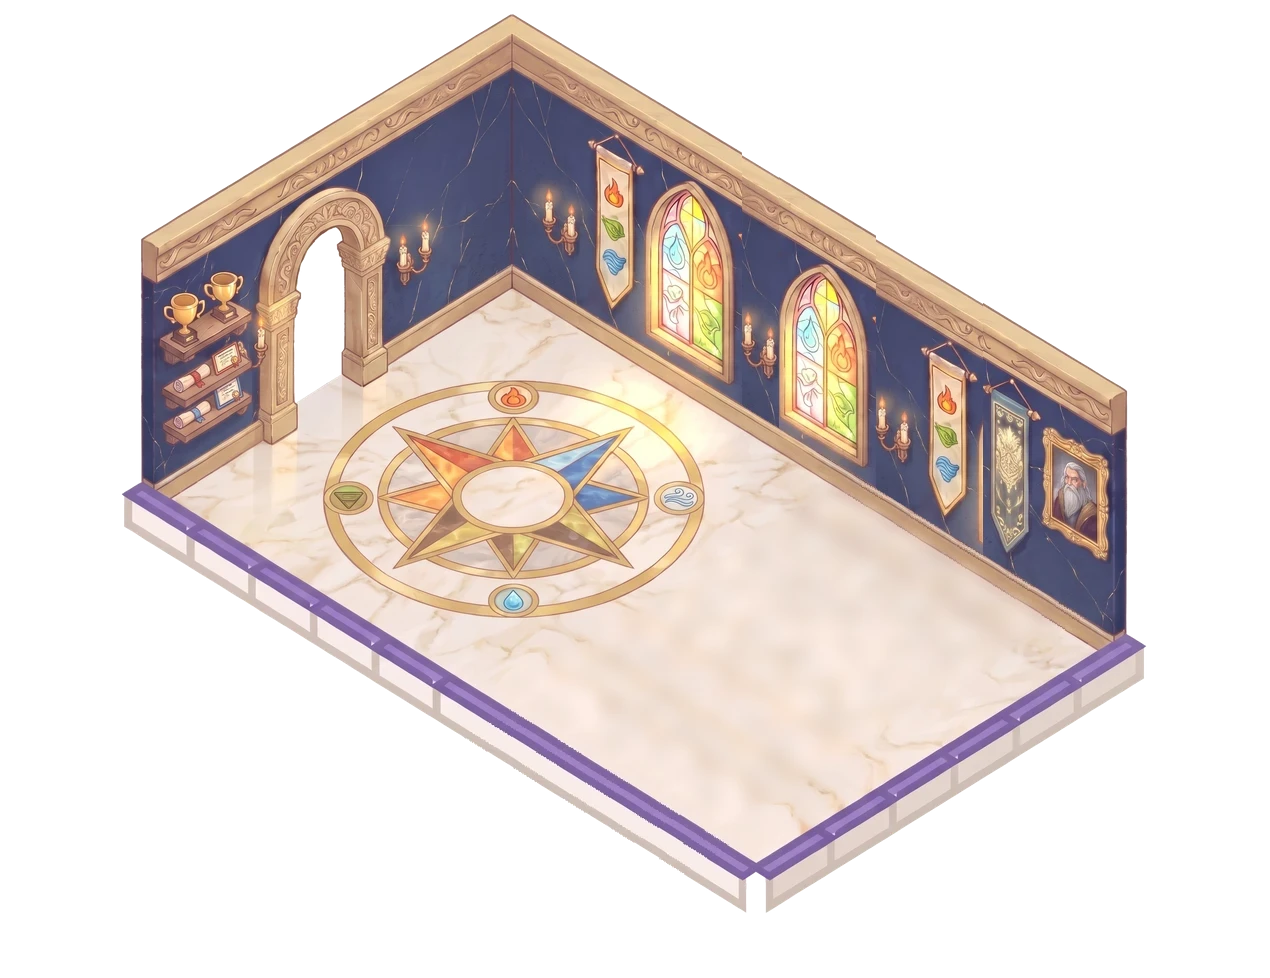
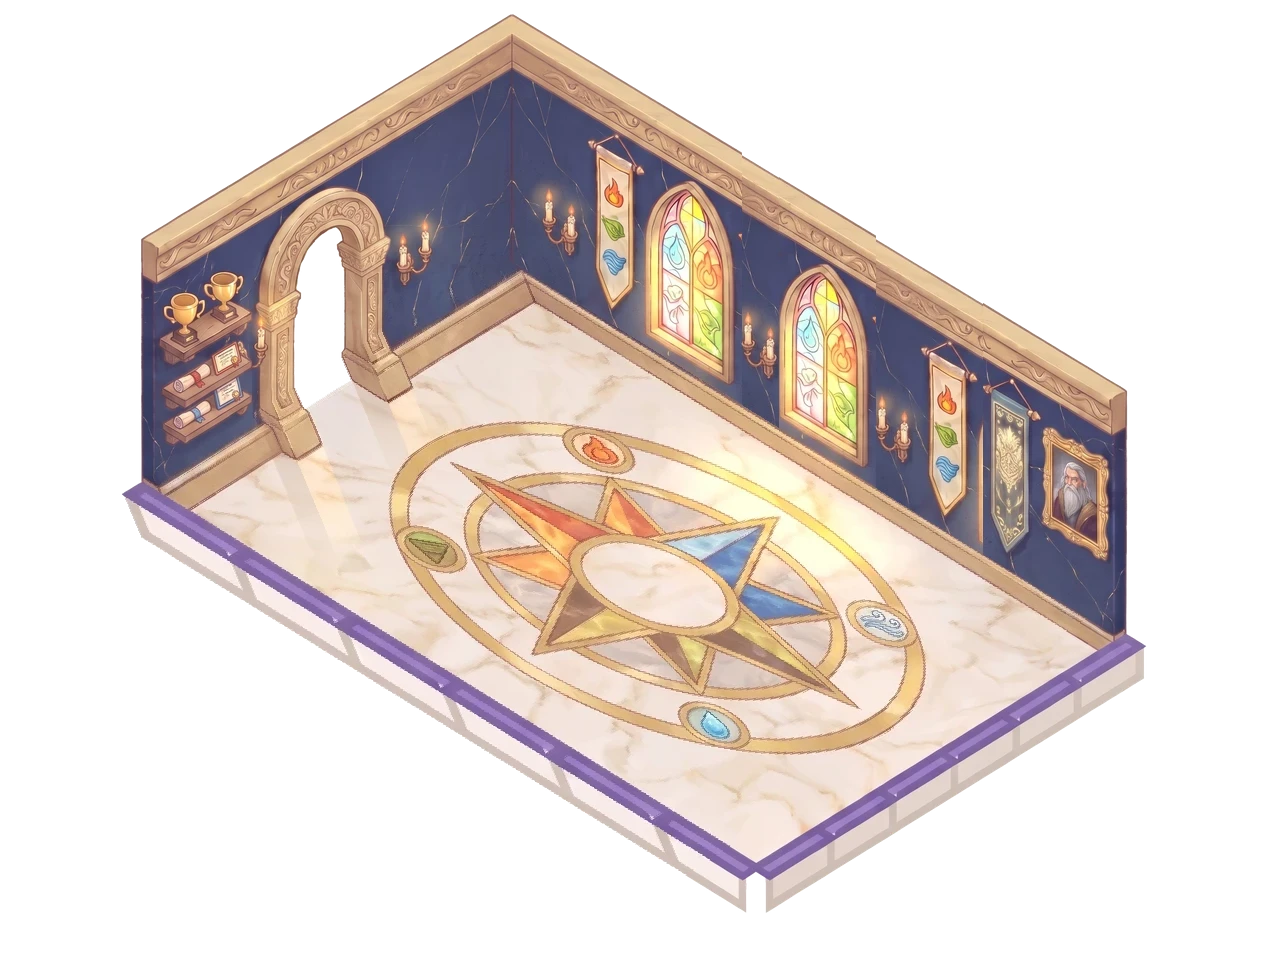
Build 617: Long masters' hall: the floor's star-compass stretched along the whole 6x10 hall (Maria: «Надо теперь этот знак на полу нормально растянуть при такой длине»); picture only, checked by eye.

diff --git a/js/game.js b/js/game.js
@@ -1,24 +1,24 @@
 // Magic school idle tycoon — v0.3: isometric campus with walking creatures.
 import './clock.js?v=470';   // build audit 2026-11-24: trusted clock (server time), must stay the first import
-import './edit_guard.js?v=616';   // room editor (?edit only): in-memory storage, no cloud
+import './edit_guard.js?v=617';   // room editor (?edit only): in-memory storage, no cloud
 import {
   OFFLINE_CAP_SEC, MAX_DESKS, MAX_ITEM_LEVEL, MAX_TEACHER_LEVEL, MAX_TIME_LEVEL,
   CLASSES, SPECIES, NAMES, MISSIONS, WORLDS, WORLD, META,
-} from './data.js?v=616';
-import { EMOJI_RE, emojiImage, preloadEmoji, watchEmoji, emojiHtml } from './emoji.js?v=616';
-import { initMinigame } from './minigame.js?v=616';
-import { initChests } from './chests.js?v=616';
-import { initValley } from './valley.js?v=616';
-import { initValley2 } from './valley2.js?v=616';   // «Долина» v2 board game behind the flag magicschool.valley2 (tools/_patch/valley2_client.py)
-import { log as glog, tail as gtail, entries as gentries, lineOf as gline, dump as gdump } from './gamelog.js?v=616';
-import { initLore } from './lore.js?v=616';
-import { initAvatar } from './avatar.js?v=616';
-import { initStats } from './stats.js?v=616';
-import { initStudents } from './students.js?v=616';   // student path 1-3 (tools/_patch/students_s8a.py), same ?v as every module
-import { initHeroes, HERO_BAL } from './heroes.js?v=616';   // heroes 8b (tools/_patch/heroes_s8b.py), same ?v as every module
-import { initAnnex } from './annex.js?v=616';   // rework 5c: class annexes (tools/_patch/annex_s5c.py), same ?v as every module   // anonymous play statistics -> lazy /game/stats (report: tools/stats_report.mjs)
-import { ANNEX_BAL } from './annex.js?v=616';   // s7: the starfall theme doubles the observatory's stars (the same module instance)
-import { initToday } from './today.js?v=616';   // rework step 7: the daily bar «☀ Сегодня» (tools/_patch/today_s7.py), same ?v as every module
+} from './data.js?v=617';
+import { EMOJI_RE, emojiImage, preloadEmoji, watchEmoji, emojiHtml } from './emoji.js?v=617';
+import { initMinigame } from './minigame.js?v=617';
+import { initChests } from './chests.js?v=617';
+import { initValley } from './valley.js?v=617';
+import { initValley2 } from './valley2.js?v=617';   // «Долина» v2 board game behind the flag magicschool.valley2 (tools/_patch/valley2_client.py)
+import { log as glog, tail as gtail, entries as gentries, lineOf as gline, dump as gdump } from './gamelog.js?v=617';
+import { initLore } from './lore.js?v=617';
+import { initAvatar } from './avatar.js?v=617';
+import { initStats } from './stats.js?v=617';
+import { initStudents } from './students.js?v=617';   // student path 1-3 (tools/_patch/students_s8a.py), same ?v as every module
+import { initHeroes, HERO_BAL } from './heroes.js?v=617';   // heroes 8b (tools/_patch/heroes_s8b.py), same ?v as every module
+import { initAnnex } from './annex.js?v=617';   // rework 5c: class annexes (tools/_patch/annex_s5c.py), same ?v as every module   // anonymous play statistics -> lazy /game/stats (report: tools/stats_report.mjs)
+import { ANNEX_BAL } from './annex.js?v=617';   // s7: the starfall theme doubles the observatory's stars (the same module instance)
+import { initToday } from './today.js?v=617';   // rework step 7: the daily bar «☀ Сегодня» (tools/_patch/today_s7.py), same ?v as every module
 // mini-game «Зельеварка» (match-3, js/minigame.js): a pill on the main screen, its own overlay; the school keeps living under it
 const MG = initMinigame({ state: () => S, earn: (n) => bonus(n), rate: () => rateNow(), save: () => save(), stones: () => stones(), spendStones: (n) => stonesAdd(-n, '', 'mg_cont'), toast: (t) => toast(t), fmt: (n) => fmt(n), emojiHtml, emojiImage,
   audioOut: () => { if (!sfxOn() || document.hidden) return null; const c = audio(); return c && c.state === 'running' ? { c, out: AOUT } : null; },
@@ -125,7 +125,7 @@ const SAVE_KEY = WORLD === 1 ? 'magicschool.save.v2' : 'magicschool.save.v2.w' +
 const saveKeyOf = (w) => (w === 1 ? 'magicschool.save.v2' : 'magicschool.save.v2.w' + w);
 const VERSION = '0.9';
 let STATS = { ev() {}, buy() {} }, spendAct = '';   // js/stats.js after the boot curtain; spendAct: what the next spend() pays for
-const BUILD = 616;   // keep equal to the ?v= number in index.html
+const BUILD = 617;   // keep equal to the ?v= number in index.html
 const $ = (s, r = document) => r.querySelector(s);
 const rnd = (a) => a[Math.floor(Math.random() * a.length)];
 
@@ -595,7 +595,7 @@ const ART = {                                               // room pictures wit
   CANT: { src: 'assets/parts/canteen/ct_room.webp?v=1', L: [103.5, 715], R: [950, 722.5], F: [525, 970] },   /* the tavern canteen, painted from the approved concept (live since her OK 2026-11-26) */
   LIB: { src: 'assets/parts/library/lb_room.webp?v=1', L: [70.6, 821], R: [946.2, 739.9], F: [441.4, 1045.5], band: 1, fill: 1 },   /* the old sunlit library, painted from the approved concept (live since her OK 2026-11-26) */
   TOWER: { src: 'assets/parts/tower/tw_room.webp?v=1', L: [144.4, 482.2], R: [866.7, 482.2], F: [511.1, 709.8], band: 1, fill: 1 },   /* the masters' hall, painted from the approved concept (live since her OK 2026-11-26) */
-  TOWER_L: { src: 'assets/parts/tower/tw_room_long.webp?v=1', L: [144.4, 482.2], R: [1111.2, 633.9], F: [755.6, 861.5], band: 1, fill: 1 },   /* the masters' hall after «Пристройка» (6 x 10) */
+  TOWER_L: { src: 'assets/parts/tower/tw_room_long.webp?v=2', L: [144.4, 482.2], R: [1111.2, 633.9], F: [755.6, 861.5], band: 1, fill: 1 },   /* the masters' hall after «Пристройка» (6 x 10) */
   REC: { src: 'assets/parts/reception/rc_room.webp?v=1', L: [11, 689], R: [953, 699], F: [502, 952] },   /* the Arrival Hall (live since her OK 2026-11-25) */   /* the Arrival Hall, painted from the approved concept */
 };
 // ---- rooms assembled from parts (any size looks whole): seamless wall + floor textures, wall decor hung
@@ -9103,5 +9103,5 @@ if (EDIT) {   // room editor: js/editor.js gets the game's room tools
     get zoom() { return zoom; }, get scale() { return scale; }, get dpr() { return dpr; }, scroller, canvas,
     get layout() { return RLAY; }, setLayout, pond: () => null, entries: () => LAY_ENT.slice(), walls: (th) => (LAY_WALLS[th] || []).slice(), layPos, layIm, texPart, thumb: (n, th) => { if (n === 'conc') return th === 'DORM2' ? LYALYA.src : (sprites.staff_concierge || {}).src || ''; if (n === 'dm_nest') n = 'dm_nest_canopy'; const im = n && (ITEM_IMS[n] || parts[th + '/' + n] || parts[th + '/iso_' + n] || LAY_IMS[n]); return im ? im.src : ''; },
     zoomAt: (z, x, y) => { setZoom(z, 0, 0, 0, 0); focusTile(x, y, false); } };
-  import('./editor.js?v=616').then((m) => m.initEditor(window.__EDIT_API)).catch((e) => { console.error(e); alert('Редактор не загрузился: ' + e.message); });
+  import('./editor.js?v=617').then((m) => m.initEditor(window.__EDIT_API)).catch((e) => { console.error(e); alert('Редактор не загрузился: ' + e.message); });
 }

diff --git a/index.html b/index.html
@@ -12,7 +12,7 @@
 <link rel="manifest" href="manifest.webmanifest">
 <link rel="apple-touch-icon" href="icons/icon-180.png?v=2">
 <link rel="icon" href="icons/icon-192.png?v=2">
-<link rel="stylesheet" href="style.css?v=616">
+<link rel="stylesheet" href="style.css?v=617">
 <script>/* iOS home-screen app: innerHeight / 100% / 100dvh are short by the status bar, a strip stayed at the bottom (her screenshots, builds 200-203); use the real screen height */
 (function(){function fit(){if(!(navigator.standalone||matchMedia('(display-mode: standalone)').matches))return;var h=Math.max(window.innerHeight,(Math.abs(window.orientation||0)===90?screen.width:screen.height));var r=document.documentElement;r.style.height=h+'px';if(document.body){document.body.style.height=h+'px';document.body.style.bottom='auto';}}fit();addEventListener('DOMContentLoaded',fit);addEventListener('resize',fit);addEventListener('orientationchange',function(){setTimeout(fit,300);});})();</script>
 </head>
@@ -72,6 +72,6 @@ setTimeout(function(){ if (window.__booted) return; var d=document.createElement
   d.querySelector('button').onclick=function(){ location.reload(); }; document.body.appendChild(d); }, 12000);
 if(!CanvasRenderingContext2D.prototype.roundRect){CanvasRenderingContext2D.prototype.roundRect=function(x,y,w,h){this.rect(x,y,w,h);};}
 </script>
-<script type="module" src="js/game.js?v=616"></script>
+<script type="module" src="js/game.js?v=617"></script>
 </body>
 </html>

diff --git a/js/emoji.js b/js/emoji.js
@@ -1,6 +1,6 @@
 // One emoji look on every device: emoji characters are replaced by bundled Twemoji pictures
 // (CC-BY 4.0, https://github.com/jdecked/twemoji), both in the page (DOM) and on the canvas.
-import { EMOJI_FILES } from './emoji-set.js?v=616';
+import { EMOJI_FILES } from './emoji-set.js?v=617';
 
 export const EMOJI_RE = /\p{Extended_Pictographic}(?:|\p{Extended_Pictographic}?|[\u{1F3FB}-\u{1F3FF}])*/gu;
 
